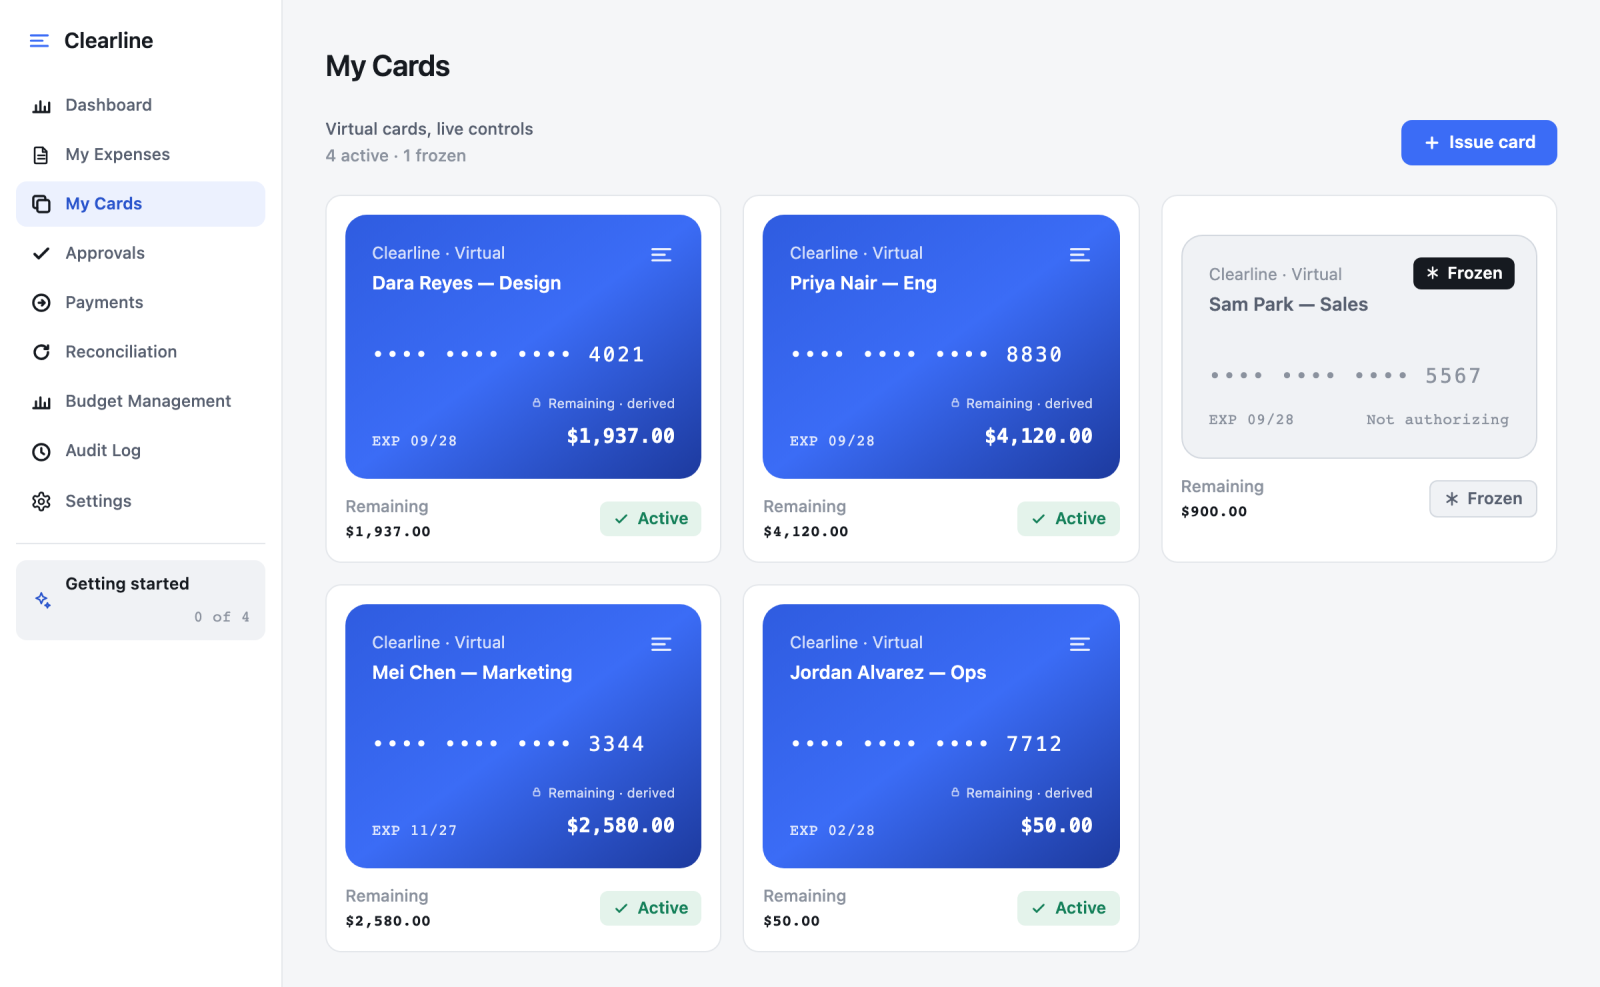
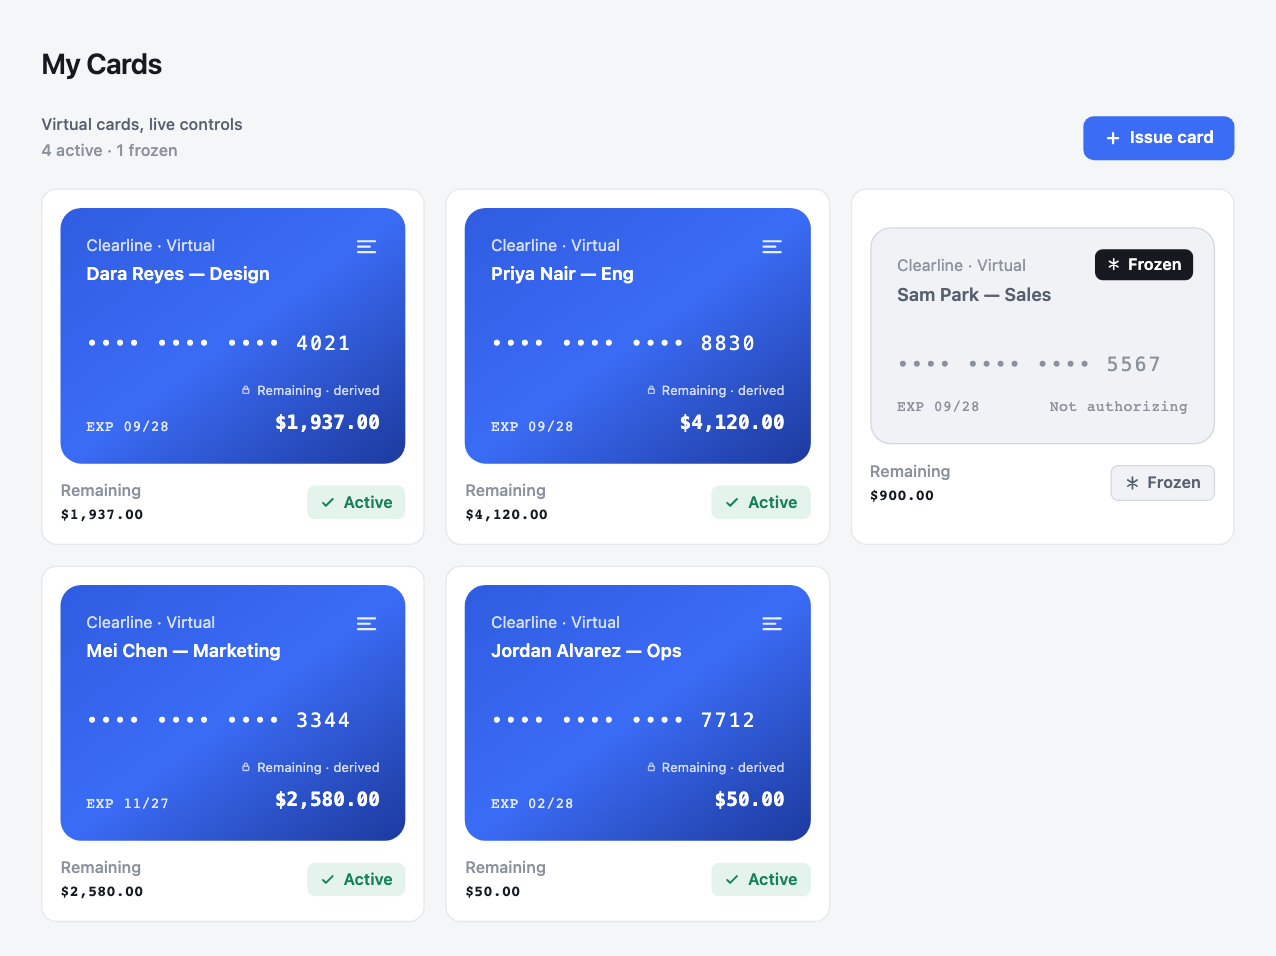
docs: render landing screenshots at their exact display size
The screenshots were still soft because each 2400px capture was resampled to an odd size, and the
feature screens were shown at 0.41x scale (about 5px body text).

Capture each screen with the browser's own fractional device pixel ratio so text is drawn natively
at the size it appears: 2076px for the 1038px hero, 1276px for the 638px feature screens, and
1060px for the 530px role pair. Natively rendered images show 1:1 on a 2x display, with no
resampling. Export them as lossless WebP.

Switch the feature cards to text-left, screenshot-right rows with the sidebar cropped out, so the
screens are larger and legible. Cap the lightbox at 1200px, the native width of the 2400px images.

diff --git a/apps/clearline-landing/index.html b/apps/clearline-landing/index.html
@@ -406,17 +406,40 @@
         max-width: 1040px;
       }
       .grid.wide {
-        grid-template-columns: repeat(auto-fit, minmax(min(100%, 440px), 1fr));
+        grid-template-columns: 1fr;
       }
+      /* Feature rows: text on the left, a screenshot rendered at exactly 640px (2x = 1280px) on the right. */
       .card.has-shot {
-        display: flex;
-        flex-direction: column;
+        display: grid;
+        grid-template-columns: minmax(0, 1fr) 640px;
+        grid-template-rows: auto auto 1fr;
+        column-gap: 32px;
+        align-items: start;
+      }
+      .card.has-shot > :not(figure) {
+        grid-column: 1;
       }
       .card.has-shot p {
-        margin-bottom: 16px;
+        margin-bottom: 0;
       }
-      .card.has-shot .shot {
-        margin-top: auto;
+      .card.has-shot figure.shot {
+        grid-column: 2;
+        grid-row: 1 / span 3;
+        width: 640px;
+        max-width: 100%;
+        justify-self: end;
+      }
+      @media (max-width: 960px) {
+        .card.has-shot {
+          grid-template-columns: minmax(0, 1fr);
+          grid-template-rows: none;
+        }
+        .card.has-shot figure.shot {
+          grid-column: 1;
+          grid-row: auto;
+          width: 100%;
+          margin-top: 16px;
+        }
       }
       .roles-pair {
         margin-top: 32px;
@@ -492,7 +515,7 @@
         grid-column: 2;
         grid-row: 1;
         justify-self: center;
-        max-width: min(100%, 1280px);
+        max-width: min(100%, 1200px);
         max-height: 100%;
         overflow: auto;
         border-radius: 10px;
@@ -892,7 +915,7 @@
           <figure class="shot hero-shot">
               <a class="shot-link" data-lightbox href="img/dashboard-full.webp" target="_blank" rel="noopener" aria-label="Enlarge screenshot: Clearline spend dashboard: total spend, pending approvals, budget remaining, and spend by category and department">
                 <span class="bar" aria-hidden="true"><i></i><i></i><i></i></span>
-                <img src="img/dashboard.webp" width="2080" height="1300" alt="Clearline spend dashboard: total spend, pending approvals, budget remaining, and spend by category and department" fetchpriority="high" />
+                <img src="img/dashboard.webp" width="2076" height="1298" alt="Clearline spend dashboard: total spend, pending approvals, budget remaining, and spend by category and department" fetchpriority="high" />
               </a>
             </figure>
         </div>
@@ -933,7 +956,7 @@
               <figure class="shot">
               <a class="shot-link" data-lightbox href="img/payments-full.webp" target="_blank" rel="noopener" aria-label="Enlarge screenshot: New payment form: pay-from account, recipient list with verified and closed statuses, amount and method, and a review panel showing the idempotency key">
                 <span class="bar" aria-hidden="true"><i></i><i></i><i></i></span>
-                <img src="img/payments.webp" width="1600" height="1200" alt="New payment form: pay-from account, recipient list with verified and closed statuses, amount and method, and a review panel showing the idempotency key" loading="lazy" decoding="async" />
+                <img src="img/payments.webp" width="1276" height="1162" alt="New payment form: pay-from account, recipient list with verified and closed statuses, amount and method, and a review panel showing the idempotency key" loading="lazy" decoding="async" />
               </a>
             </figure>
             </article>
@@ -947,7 +970,7 @@
               <figure class="shot">
               <a class="shot-link" data-lightbox href="img/approvals-full.webp" target="_blank" rel="noopener" aria-label="Enlarge screenshot: Approvals queue with four pending expenses, each with Reject and Approve actions, and the approver limit shown">
                 <span class="bar" aria-hidden="true"><i></i><i></i><i></i></span>
-                <img src="img/approvals.webp" width="1600" height="654" alt="Approvals queue with four pending expenses, each with Reject and Approve actions, and the approver limit shown" loading="lazy" decoding="async" />
+                <img src="img/approvals.webp" width="1276" height="633" alt="Approvals queue with four pending expenses, each with Reject and Approve actions, and the approver limit shown" loading="lazy" decoding="async" />
               </a>
             </figure>
             </article>
@@ -961,7 +984,7 @@
               <figure class="shot">
               <a class="shot-link" data-lightbox href="img/cards-full.webp" target="_blank" rel="noopener" aria-label="Enlarge screenshot: Virtual card wallet with four active cards and one frozen card that is not authorizing">
                 <span class="bar" aria-hidden="true"><i></i><i></i><i></i></span>
-                <img src="img/cards.webp" width="1600" height="987" alt="Virtual card wallet with four active cards and one frozen card that is not authorizing" loading="lazy" decoding="async" />
+                <img src="img/cards.webp" width="1276" height="956" alt="Virtual card wallet with four active cards and one frozen card that is not authorizing" loading="lazy" decoding="async" />
               </a>
             </figure>
             </article>
@@ -976,7 +999,7 @@
               <figure class="shot">
               <a class="shot-link" data-lightbox href="img/reconciliation-full.webp" target="_blank" rel="noopener" aria-label="Enlarge screenshot: Reconciliation exceptions queue: a 78 percent fuzzy match to review, two unmatched items, and a split candidate">
                 <span class="bar" aria-hidden="true"><i></i><i></i><i></i></span>
-                <img src="img/reconciliation.webp" width="1600" height="1046" alt="Reconciliation exceptions queue: a 78 percent fuzzy match to review, two unmatched items, and a split candidate" loading="lazy" decoding="async" />
+                <img src="img/reconciliation.webp" width="1276" height="1015" alt="Reconciliation exceptions queue: a 78 percent fuzzy match to review, two unmatched items, and a split candidate" loading="lazy" decoding="async" />
               </a>
             </figure>
             </article>
@@ -991,7 +1014,7 @@
               <figure class="shot">
               <a class="shot-link" data-lightbox href="img/budgets-full.webp" target="_blank" rel="noopener" aria-label="Enlarge screenshot: Department budgets showing on-track, 80 percent warning, and over-budget states with icons and text, not color alone">
                 <span class="bar" aria-hidden="true"><i></i><i></i><i></i></span>
-                <img src="img/budgets.webp" width="1600" height="794" alt="Department budgets showing on-track, 80 percent warning, and over-budget states with icons and text, not color alone" loading="lazy" decoding="async" />
+                <img src="img/budgets.webp" width="1276" height="768" alt="Department budgets showing on-track, 80 percent warning, and over-budget states with icons and text, not color alone" loading="lazy" decoding="async" />
               </a>
             </figure>
             </article>
@@ -1006,7 +1029,7 @@
               <figure class="shot">
               <a class="shot-link" data-lightbox href="img/audit-full.webp" target="_blank" rel="noopener" aria-label="Enlarge screenshot: Audit log marked append-only, listing who did what and when, with before-and-after changes, including the entry for viewing the log itself">
                 <span class="bar" aria-hidden="true"><i></i><i></i><i></i></span>
-                <img src="img/audit.webp" width="1600" height="707" alt="Audit log marked append-only, listing who did what and when, with before-and-after changes, including the entry for viewing the log itself" loading="lazy" decoding="async" />
+                <img src="img/audit.webp" width="1276" height="684" alt="Audit log marked append-only, listing who did what and when, with before-and-after changes, including the entry for viewing the log itself" loading="lazy" decoding="async" />
               </a>
             </figure>
             </article>
@@ -1021,14 +1044,14 @@
             <figure class="shot">
               <a class="shot-link" data-lightbox href="img/role-employee-full.webp" target="_blank" rel="noopener" aria-label="Enlarge screenshot: Employee view: the sidebar has only My Expenses, My Cards, and Settings">
                 <span class="bar" aria-hidden="true"><i></i><i></i><i></i></span>
-                <img src="img/role-employee.webp" width="1200" height="520" alt="Employee view: the sidebar has only My Expenses, My Cards, and Settings" loading="lazy" decoding="async" />
+                <img src="img/role-employee.webp" width="1060" height="1040" alt="Employee view: the sidebar has only My Expenses, My Cards, and Settings" loading="lazy" decoding="async" />
               </a>
               <figcaption><b>Employee</b> — 3 nav items</figcaption>
             </figure>
             <figure class="shot">
               <a class="shot-link" data-lightbox href="img/role-controller-full.webp" target="_blank" rel="noopener" aria-label="Enlarge screenshot: Controller view: the sidebar adds Dashboard, Approvals, Payments, Reconciliation, Budget Management, and Audit Log">
                 <span class="bar" aria-hidden="true"><i></i><i></i><i></i></span>
-                <img src="img/role-controller.webp" width="1200" height="520" alt="Controller view: the sidebar adds Dashboard, Approvals, Payments, Reconciliation, Budget Management, and Audit Log" loading="lazy" decoding="async" />
+                <img src="img/role-controller.webp" width="1060" height="1040" alt="Controller view: the sidebar adds Dashboard, Approvals, Payments, Reconciliation, Budget Management, and Audit Log" loading="lazy" decoding="async" />
               </a>
               <figcaption><b>Controller</b> — 9 nav items</figcaption>
             </figure>
